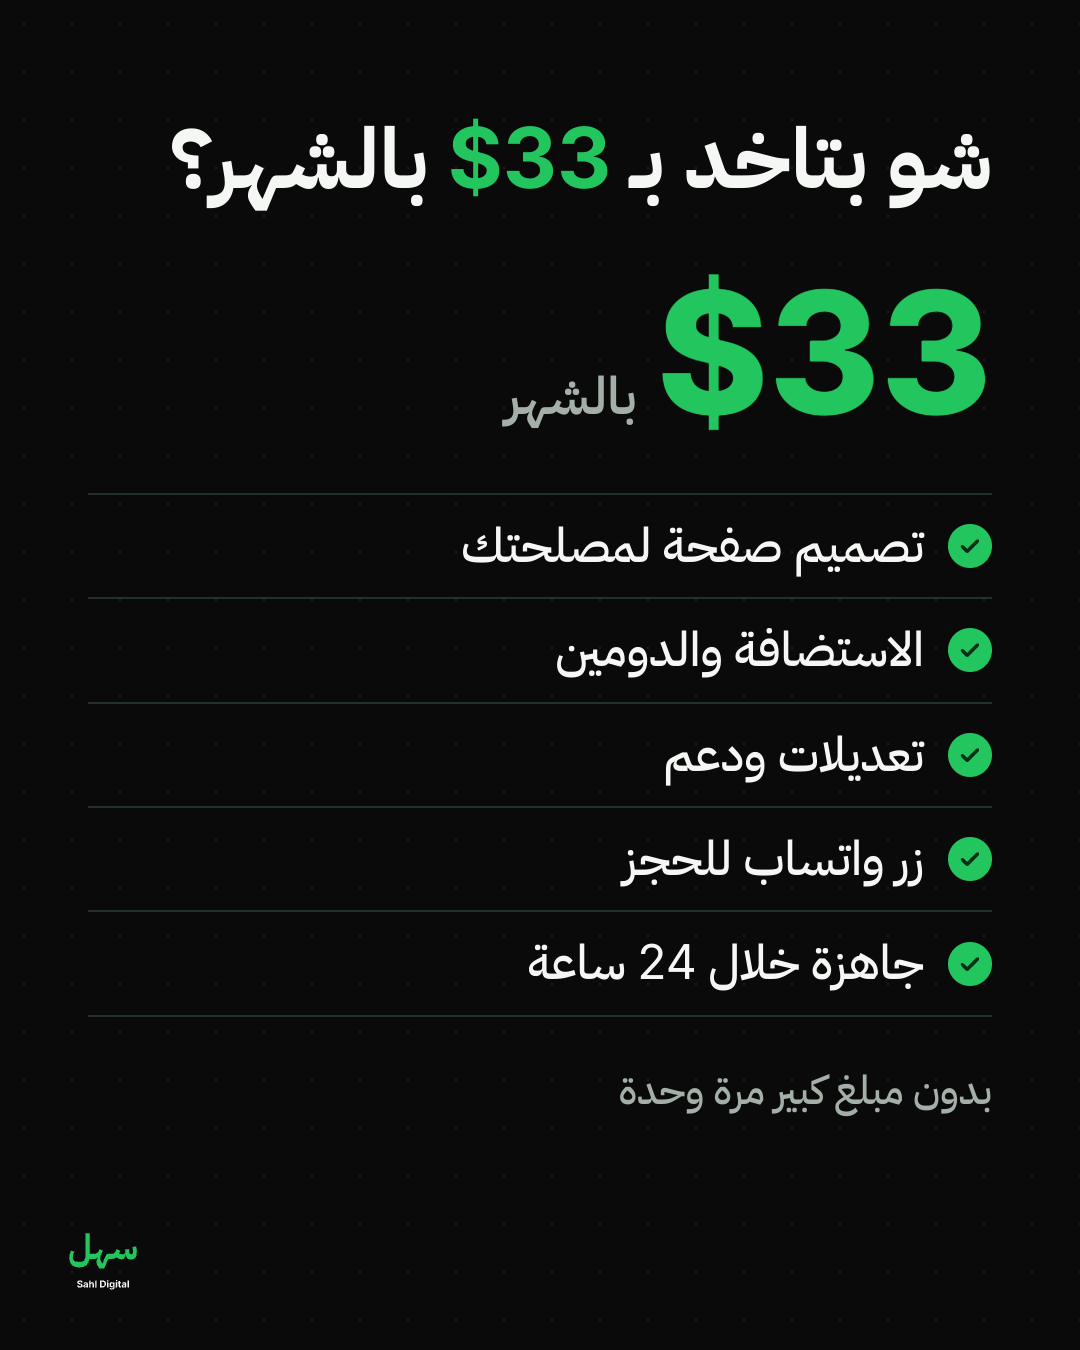
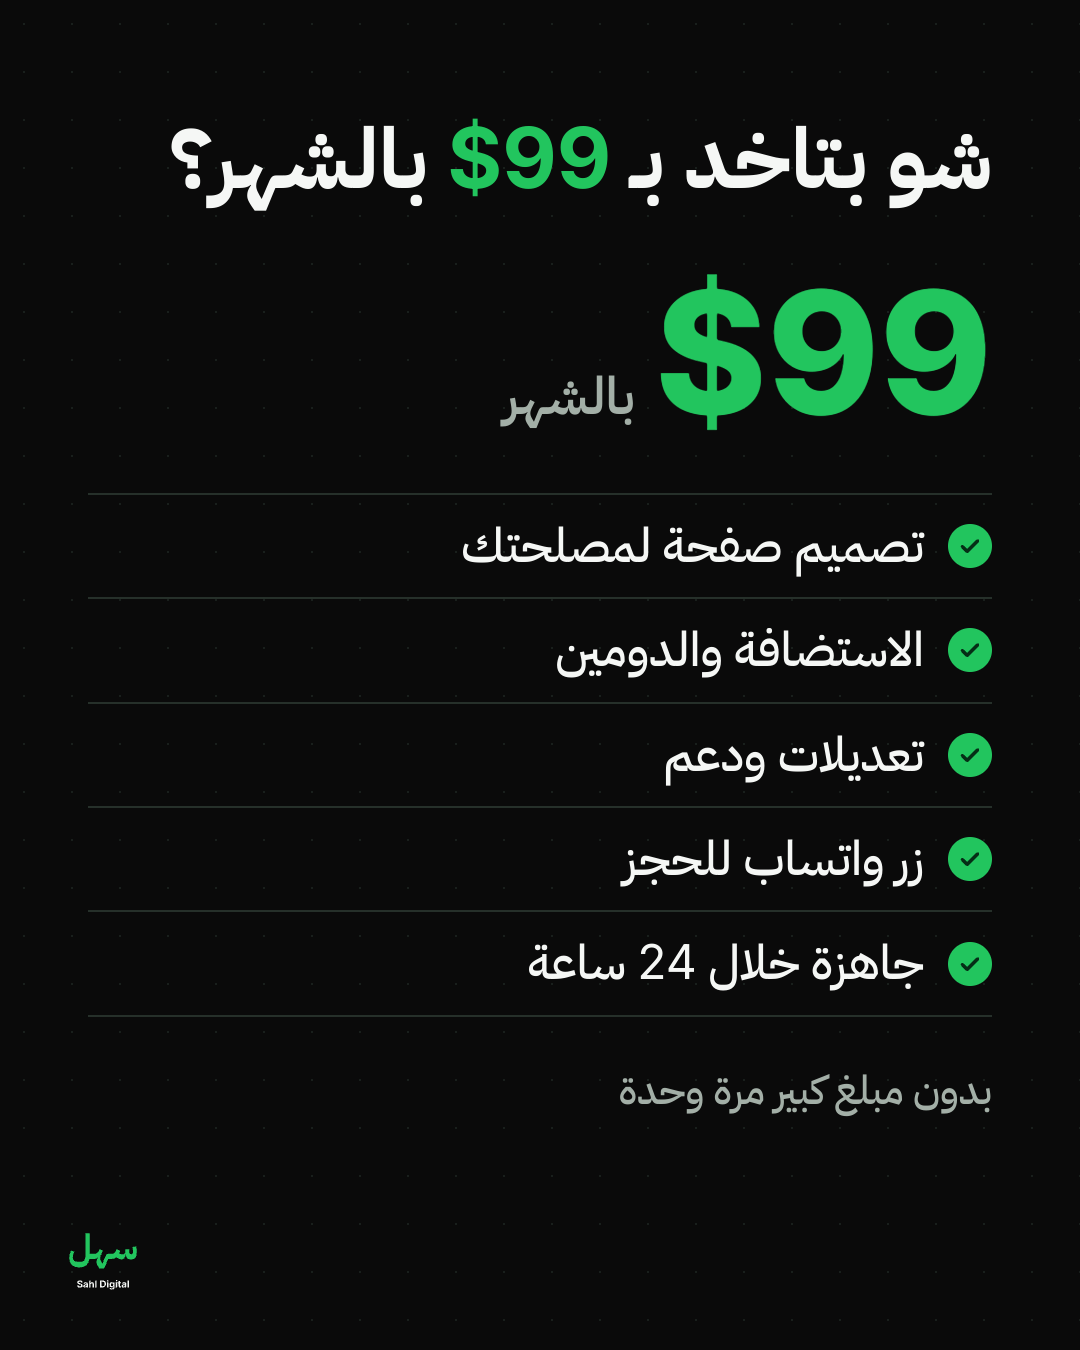
Triple prices on links page and P07; add bilingual ad image
Claude-Session: https://claude.ai/code/session_017hf2cfTJDUKYVb4JduQL7y

diff --git a/links/index.html b/links/index.html
@@ -343,9 +343,9 @@ body.has-dock{padding-bottom:120px}
         <button type="button" data-bill="y" aria-pressed="false"><span data-en="Yearly">سنوي</span> <i data-en="2 months free">شهرين مجاناً</i></button>
       </div>
       <div class="price-list">
-        <div class="price" data-m="33"><span data-en="Landing page">صفحة هبوط</span><b><bdi>$33</bdi><small>/شهر</small></b><em class="save"></em></div>
-        <div class="price" data-m="66"><span data-en="Website / web app">موقع أو تطبيق ويب</span><b><bdi>$66</bdi><small>/شهر</small></b><em class="save"></em></div>
-        <div class="price" data-m="99"><span data-en="Mobile app + web">تطبيق موبايل + ويب</span><b><bdi>$99</bdi><small>/شهر</small></b><em class="save"></em></div>
+        <div class="price" data-m="99"><span data-en="Landing page">صفحة هبوط</span><b><bdi>$99</bdi><small>/شهر</small></b><em class="save"></em></div>
+        <div class="price" data-m="198"><span data-en="Website / web app">موقع أو تطبيق ويب</span><b><bdi>$198</bdi><small>/شهر</small></b><em class="save"></em></div>
+        <div class="price" data-m="297"><span data-en="Mobile app + web">تطبيق موبايل + ويب</span><b><bdi>$297</bdi><small>/شهر</small></b><em class="save"></em></div>
         <div class="price custom"><span data-en="Custom / automation">مخصص أو أتمتة</span><b data-en="Let's talk">حسب المشروع</b></div>
       </div>
       <p class="note" data-en="You can pay the same amount in shekels at the day's rate. Includes two rounds of design revisions and one on the finished build.">بتقدر تدفع نفس المبلغ بالشيكل حسب سعر اليوم. وبتشمل جولتين تعديل عالتصميم وجولة عالنسخة النهائية.</p>
@@ -390,9 +390,9 @@ body.has-dock{padding-bottom:120px}
       msg:function(a){return "Hi Adham 👋 I came from your Instagram link.\nI have "+a.typeEn+" in "+a.marketEn+" and I want "+a.goalEn+".\nI'd like the free design for my page 🙏"}}
   };
   var PLANS={
-    landing:{usd:33,ar:["صفحة هبوط بتجيب زباين","صفحة وحدة قوية بتشرح شغلك وبتحوّل الزائر لرسالة عالواتساب. ولو عندك منتج، بنضيف فيديو ومجسّم ثلاثي الأبعاد."],en:["A landing page that brings clients","One strong page that explains your business and turns visitors into WhatsApp messages. Got a product? We add a hero video and a 3D model."]},
-    web:{usd:66,ar:["موقع مع نظام حجوزات","زباينك بيحجزوا لحالهم بأي وقت، وبتوصلك الحجوزات مرتبة بدون مكالمات رايحة جاية."],en:["A website with bookings","Clients book themselves any time, and you get tidy bookings without back-and-forth calls."]},
-    app:{usd:99,ar:["تطبيق موبايل + موقع","تطبيق باسم بزنسك على Android و iPhone مع موقع، عشان زباينك يرجعولك دايماً."],en:["Mobile app + website","An app with your business name on Android and iPhone, plus a website, so clients keep coming back."]},
+    landing:{usd:99,ar:["صفحة هبوط بتجيب زباين","صفحة وحدة قوية بتشرح شغلك وبتحوّل الزائر لرسالة عالواتساب. ولو عندك منتج، بنضيف فيديو ومجسّم ثلاثي الأبعاد."],en:["A landing page that brings clients","One strong page that explains your business and turns visitors into WhatsApp messages. Got a product? We add a hero video and a 3D model."]},
+    web:{usd:198,ar:["موقع مع نظام حجوزات","زباينك بيحجزوا لحالهم بأي وقت، وبتوصلك الحجوزات مرتبة بدون مكالمات رايحة جاية."],en:["A website with bookings","Clients book themselves any time, and you get tidy bookings without back-and-forth calls."]},
+    app:{usd:297,ar:["تطبيق موبايل + موقع","تطبيق باسم بزنسك على Android و iPhone مع موقع، عشان زباينك يرجعولك دايماً."],en:["Mobile app + website","An app with your business name on Android and iPhone, plus a website, so clients keep coming back."]},
     auto:{usd:null,ar:["أتمتة واتساب بالذكاء الاصطناعي","بوت بيرد على الأسئلة المتكررة، بيأكد الحجوزات وبيبعت تذكيرات، وأنت مش ماسك التلفون طول اليوم."],en:["AI WhatsApp automation","A bot that answers common questions, confirms bookings and sends reminders, so you're not on your phone all day."]}
   };
 
